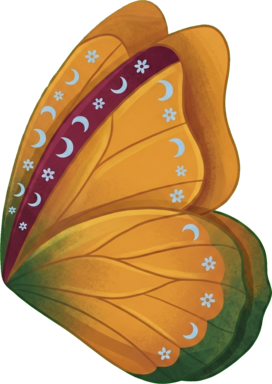
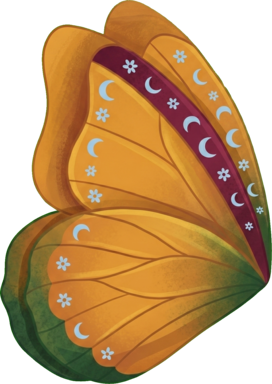
Cosmetics: move wing anchor to the back ridge, crop wizard hat, small art flips
Back anchor moved from (crown-0.08w, crown+0.2h) to
(crown-0.2w, crown+0.08h) — a sliver below the crown y and
well back toward mid-body, so the wing-root lands on the
upper back / spine ridge where the raptor's spots sit. Wings
now extend up-and-behind from the spine instead of hanging
off the belly.

Per-wing offsets simplified since the anchor itself moved:
  • angel / demon — offset { y: -0.05 } (barely above anchor).
  • butterflies (orange / blue / purple) — offset { y: -0.03 }.

Art:
  • butterfly-wings-orange + -blue — re-flopped so they face
    the correct direction for a right-running raptor again.
  • eye-patch — re-flopped.
  • wizard-hat — cropped off the bottom ~25% so the brim doesn't
    hang below the raptor's head line. Reads as "wearing" the
    hat instead of the hat floating attached by the tip only.

diff --git a/src/cosmetics.ts b/src/cosmetics.ts
@@ -244,7 +244,7 @@ export const COSMETICS: ReadonlyArray<CosmeticDef> = [
     price: 600,
     spriteKey: "angelWings",
     description: "Feathered, luminous. Halo not included.",
-    draw: { scale: 0.65, rotation: -0.2, offset: { x: -0.18, y: -0.32 } },
+    draw: { scale: 0.65, rotation: -0.2, offset: { y: -0.05 } },
   },
   {
     id: "demon-wings",
@@ -253,7 +253,7 @@ export const COSMETICS: ReadonlyArray<CosmeticDef> = [
     price: 600,
     spriteKey: "demonWings",
     description: "Boned and membraned. Runic markings optional.",
-    draw: { scale: 0.7, rotation: -0.2, offset: { x: -0.18, y: -0.32 } },
+    draw: { scale: 0.7, rotation: -0.2, offset: { y: -0.05 } },
   },
   {
     id: "butterfly-wings-orange",
@@ -262,7 +262,7 @@ export const COSMETICS: ReadonlyArray<CosmeticDef> = [
     price: 300,
     spriteKey: "butterflyWingsOrange",
     description: "Orange monarch — moons and flowers pattern.",
-    draw: { scale: 0.55, rotation: -0.15, offset: { x: -0.15, y: -0.28 } },
+    draw: { scale: 0.55, rotation: -0.15, offset: { y: -0.03 } },
   },
   {
     id: "butterfly-wings-blue",
@@ -271,7 +271,7 @@ export const COSMETICS: ReadonlyArray<CosmeticDef> = [
     price: 300,
     spriteKey: "butterflyWingsBlue",
     description: "Deep-blue morpho — speckled and eyespotted.",
-    draw: { scale: 0.55, rotation: -0.15, offset: { x: -0.15, y: -0.28 } },
+    draw: { scale: 0.55, rotation: -0.15, offset: { y: -0.03 } },
   },
   {
     id: "butterfly-wings-purple",
@@ -280,7 +280,7 @@ export const COSMETICS: ReadonlyArray<CosmeticDef> = [
     price: 300,
     spriteKey: "butterflyWingsPurple",
     description: "Magenta with celestial banding.",
-    draw: { scale: 0.55, rotation: -0.15, offset: { x: -0.15, y: -0.28 } },
+    draw: { scale: 0.55, rotation: -0.15, offset: { y: -0.03 } },
   },
 ];
 

diff --git a/src/entities/raptor.ts b/src/entities/raptor.ts
@@ -259,14 +259,15 @@ export class Raptor {
    */
   currentBackPoint(): { x: number; y: number } {
     const crown = this.currentCrownPoint();
-    // crown is roughly at the top-front of the head; the back
-    // attachment lives behind it and slightly below, at the
-    // raptor's shoulder / upper-back region. Fractions are tuned
-    // by eye against the flipped wing art so the wing-root sits
-    // on the shoulder instead of floating in the belly area.
+    // Target the upper-back ridge — the line of spots running
+    // along the raptor's dorsal side above the shoulders. Pulled
+    // back from the crown toward mid-body (so the wing-root lands
+    // over the spine, not the neck) and only a sliver below the
+    // crown y (so wings extend up-and-back from the top of the
+    // back, instead of hanging off the belly).
     return {
-      x: crown.x - this.w * 0.08,
-      y: crown.y + this.h * 0.2,
+      x: crown.x - this.w * 0.2,
+      y: crown.y + this.h * 0.08,
     };
   }
 
